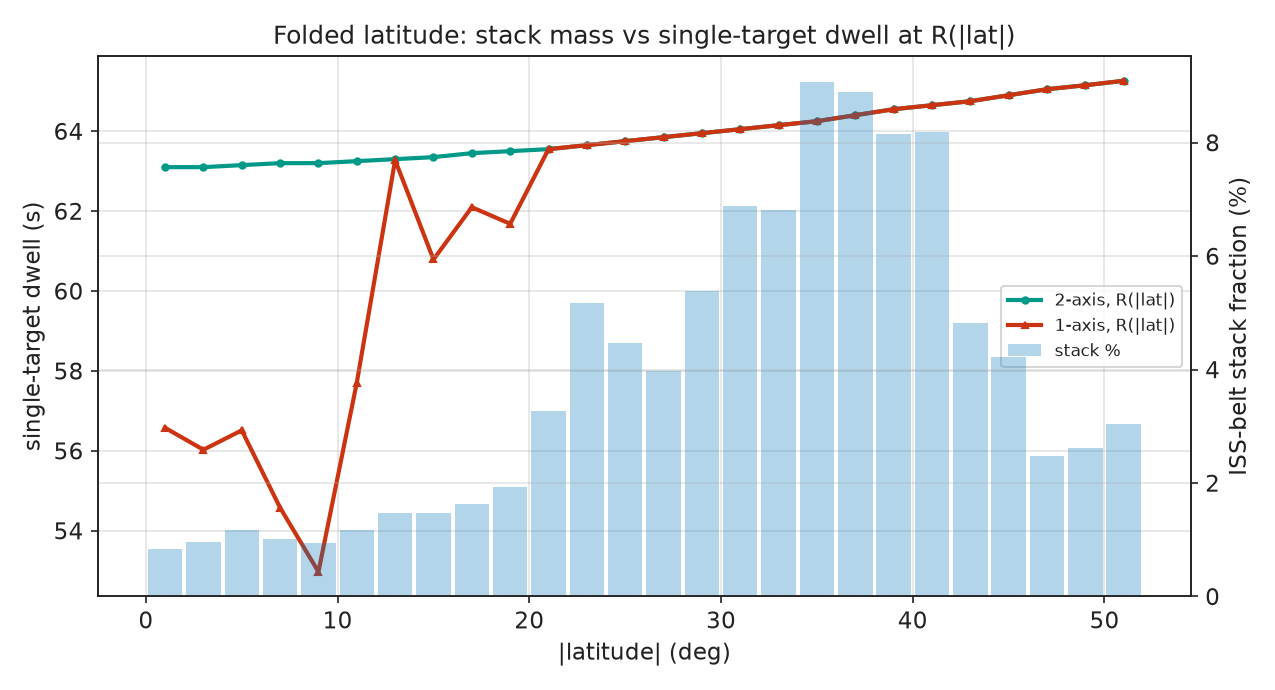
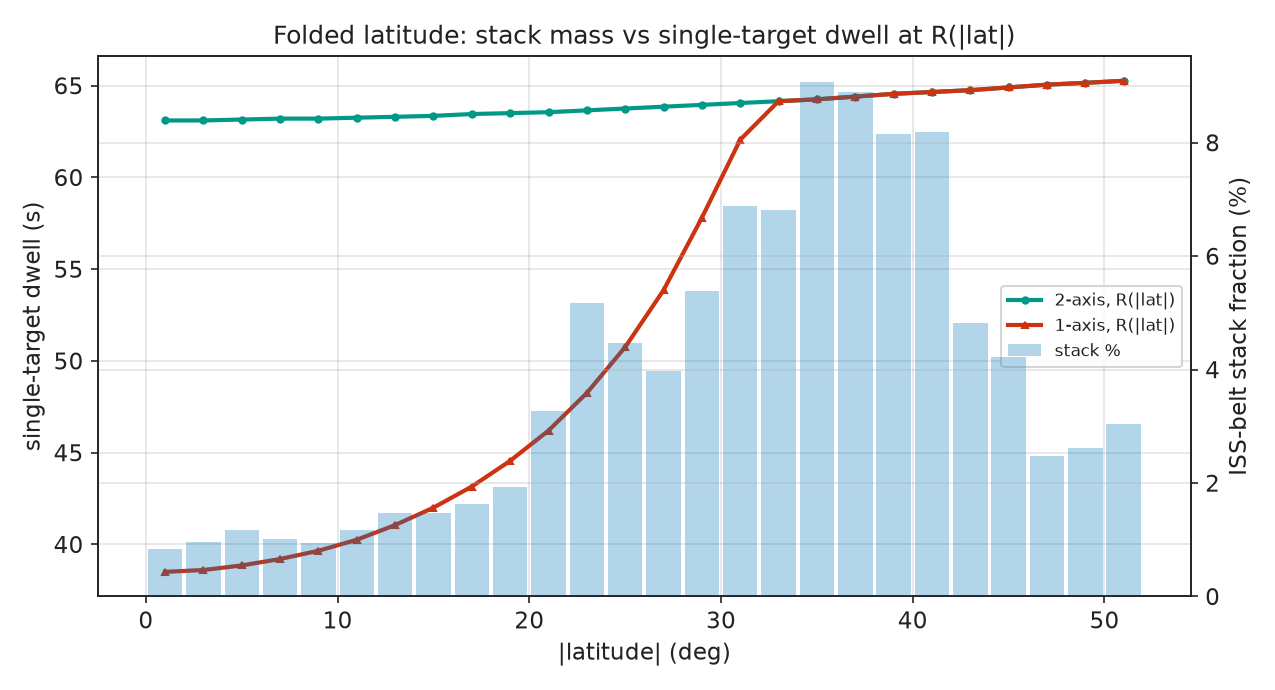
docs(analysis): regenerate gimbal study reports under the half-disk gate
Rebuild geometry and industry outputs after the 50% on-chip dwell test.
Add the 1-axis plume-length percentile reacquire figure. Guard TimeLostFn
cache loads when the radius grid shape changes.

diff --git a/packages/analysis/src/analysis/lib/tracking.py b/packages/analysis/src/analysis/lib/tracking.py
@@ -445,8 +445,11 @@ class TimeLostFn:
         t2: np.ndarray | None = None
         if cache_path.is_file():
             cached = np.load(cache_path)
-            same_grid = np.allclose(cached["lats"], self.lats) and np.allclose(
-                cached["rs"], self.rs
+            same_grid = (
+                cached["lats"].shape == self.lats.shape
+                and cached["rs"].shape == self.rs.shape
+                and np.allclose(cached["lats"], self.lats)
+                and np.allclose(cached["rs"], self.rs)
             )
             same_box = _cap_matches(
                 _npz_float(cached, "el_limb_deg"), box.el_limb_deg

diff --git a/packages/analysis/single_axis_vs_dual_axis_gimbal/INDUSTRIAL.md b/packages/analysis/single_axis_vs_dual_axis_gimbal/INDUSTRIAL.md
@@ -14,21 +14,20 @@ TEMPORARY ANALYSIS. Generated by the industry command of
   haversine plant span. That is a possibility set, not a smoke-filled blob.
 - **L = 2 km** is a **conservative visible-length envelope**
   (cooling-tower photo climatologies: typical 0.3-0.8 km, winter often
-  >0.9 km, ~90-95th percentile ~1.5-3 km). Not a Mommert-chip measurement.
-  Not typical length. Wind azimuth is unknown, so L is a radius: the
-  plume CoG sits somewhere in that disk.
-- **Any part of the disk.** Unknown wind puts the plume CoG somewhere
-  in the covering disk. Acquire means: there exists a point of that
-  disk the gimbal can put on the chip. One-axis: the parked FOV
-  (+/-1.60 deg) overlaps the disk azimuth span. Two-axis: the ISS
-  keep-out box (+/-10 deg) overlaps the disk, then the gimbal
-  boresights that in-box point onto the chip. A disk that sticks out
-  of the box still counts if any point is inside. This is not
-  whole-disk-in-box and not whole-disk-in-chip.
-- **P(visible)** = fraction of that disk in the FOV after pointing
-  (unknown-wind geometry). Not computed as a yield weight here.
-  Plume volume / Gaussian ribbon (~5% disk fill) is occupancy/SNR only.
-  Do not multiply the two.
+  >0.9 km). A lognormal fit (P50 = 0.50 km, P95 = 2.5 km) to those
+  bins, Polak 1984 (short <0.3, medium 0.3-0.9, long >0.9 km), and the
+  Indian Point NDCT few-percent tail at 1.6-4 km gives P50/P80/P90/P95/P99
+  = 0.50 / 1.1 / 1.8 / 2.5 / 4.9 km. Climate TRACE has plant span D,
+  not L. Locked design L sits between P90 and P95. Wind azimuth is
+  unknown, so L is a radius: the plume CoG sits somewhere in that disk.
+- **Half the disk on chip.** In-frame means at least 50% of covering-disk
+  area is on the chip after pointing. One-axis parks at az = 0 (elevation
+  tracks the origin). Two-axis boresights the origin when it is inside
+  the +/-10 deg keep-out box; if the origin is outside the box that
+  sample is out. This replaces the any-part existence test.
+- **P(visible)** is that on-chip area fraction. A sample counts if it is
+  >= 0.5. Plume volume / Gaussian ribbon (~5% disk fill) is occupancy/SNR
+  only. Do not multiply the two.
 - **No locked design R.** Operational R is per cluster (`r_cover_km`) and,
   for lat tables, stack-weighted mean `R(|lat|) = D(|lat|) + L`.
 - **Camera/lens.** BFS-U3-50S5, Sony IMX264, 3.45 um, 2448x2048,
@@ -155,9 +154,9 @@ The signed-latitude figure is the decision plot.
 
 | |lat| (deg) | R (km) | dwell 1 (s) | dwell 2 (s) | T_reacq 1 N (s) | T_reacq 2 N (s) | cycle 1 N (s) | cycle 2 N (s) |
 | --- | --- | --- | --- | --- | --- | --- | --- |
-| 0-10.0 | 3.90 | 55.2 | 63.1 | 206.3 | 79.3 | 261.4 | 142.5 |
-| 10-20.0 | 4.16 | 61.1 | 63.3 | 104.0 | 46.5 | 165.1 | 109.8 |
-| 20-30.0 | 4.87 | 63.7 | 63.7 | 21.4 | 15.7 | 85.2 | 79.5 |
+| 0-10.0 | 3.90 | 38.8 | 63.1 | 208.9 | 79.3 | 247.7 | 142.5 |
+| 10-20.0 | 4.16 | 42.0 | 63.3 | 105.9 | 46.5 | 147.9 | 109.8 |
+| 20-30.0 | 4.87 | 50.7 | 63.7 | 21.2 | 15.7 | 72.0 | 79.5 |
 | 30-40.0 | 5.51 | 64.2 | 64.2 | 7.4 | 7.1 | 71.7 | 71.4 |
 | 40-45.0 | 4.96 | 64.7 | 64.7 | 10.8 | 9.7 | 75.6 | 74.4 |
 | 45-51.6 | 4.31 | 65.1 | 65.1 | 26.1 | 17.9 | 91.2 | 83.0 |
@@ -180,13 +179,13 @@ off-track origins are a separate loss in the swath column.
 
 | weight | dwell 1 (s) | dwell 2 (s) | T_reacq 1 (s) | T_reacq 2 (s) | cycle 1 (s) | cycle 2 (s) | duty 1 | duty 2 |
 | --- | --- | --- | --- | --- | --- | --- | --- | --- |
-| **stack count (primary)** | 62.9 | 64.2 | 60.9 | 27.0 | 123.8 | 91.2 | 72% | 78% |
-| 2025 CO2 | 63.1 | 64.1 | 45.5 | 22.1 | 108.6 | 86.2 | 75% | 80% |
-| covering-disk area (sprawl) | 64.2 | 64.2 | 38.9 | 19.6 | 103.1 | 83.9 | 77% | 81% |
+| **stack count (primary)** | 58.6 | 64.2 | 61.2 | 27.0 | 119.8 | 91.2 | 71% | 78% |
+| 2025 CO2 | 58.2 | 64.1 | 45.7 | 22.1 | 103.9 | 86.2 | 73% | 80% |
+| covering-disk area (sprawl) | 59.3 | 64.2 | 39.2 | 19.6 | 98.5 | 83.9 | 75% | 81% |
 
 ISS dwell (more time near +/-i) does not change single-target dwell:
-stacks + dwell -> **63.5 vs 64.4 s** (same-origin leftover 0.9 s).
-Lost time is reacquire: **61 s (1-axis) vs 27 s (2-axis)**. Cycle (start of track to next acquire) is **124 s vs 91 s**. Duty T_dwell / cycle is **72% vs 78%**.
+stacks + dwell -> **60.3 vs 64.4 s** (same-origin leftover 4.1 s).
+Lost time is reacquire: **61 s (1-axis) vs 27 s (2-axis)**. Cycle (start of track to next acquire) is **120 s vs 91 s**. Duty T_dwell / cycle is **71% vs 78%**.
 Ocean-averaged longitude in each signed lat band still makes empty
 ocean stretches slow; city corridors would reacquire faster. This
 is not a nearest-neighbour plant-to-plant model. Folding |lat|
@@ -202,8 +201,8 @@ longitude coverage is proportional to swath.
 | | 1-axis | 2-axis | ratio |
 | --- | --- | --- | --- |
 | mean daily coverage of a random ISS-belt cluster | 2.26% | 14.22% | 6.31x |
-| primary FoM E[T_usable x coverage] (T>=1s) | 1.42 | 9.14 | 6.41x |
-| geometry check E[T x coverage] (s x frac) | 1.42 | 9.14 | 6.41x |
+| primary FoM E[T_usable x coverage] (T>=1s) | 1.34 | 9.14 | 6.82x |
+| geometry check E[T x coverage] (s x frac) | 1.34 | 9.14 | 6.82x |
 | distinct usable visits (frac/day) | 0.0226 | 0.1422 | 6.31x |
 
 The ~6x coverage ratio is the extra search area of the +/-10 deg ISS
@@ -212,9 +211,32 @@ box after the limb stop; scan time is in T_reacq, not in coverage.
 The along-track science window is no longer 124 s (that was 60 deg
 off-nadir). Combined FoM is dwell x coverage with the 1 s usable floor.
 
+## Plume-length percentiles (1-axis)
+
+Climate TRACE has plant span D, not visible plume length L. The
+P50/P80/P90/P95/P99 lengths are a lognormal fit to cooling-tower
+climatology (typical 0.3-0.8 km; Polak 1984 short/medium/long bins;
+Indian Point NDCT few-percent tail at 1.6-4 km), with P50 = 0.50 km
+and P95 = 2.5 km.
+
+| percentile | L (km) |
+| --- | --- |
+| P50 | 0.5 |
+| P80 | 1.1 |
+| P90 | 1.8 |
+| P95 | 2.5 |
+| P99 | 4.9 |
+| locked design | 2 |
+
+The companion figure holds 2-axis at L = 2 km and varies 1-axis
+R(|lat|) = D(|lat|) + L_pct. Under the 50% on-chip test, 1-axis
+curves nearly overlap except at low latitude where D+L approaches
+the chip width: half-out is then close to origin-on-the-FOV-edge,
+so locked L = 2 km does not drive the clocks.
+
 ## Decision numbers
 
-1. **Single-target dwell:** stack-weighted **63 s vs 64 s**.
+1. **Single-target dwell:** stack-weighted **59 s vs 64 s**.
    Almost all of the same-origin gap is the 20-40 N band, where Earth
    rotation walks the covering disk out of the 1-axis chip. That
    number is still the right 'how long can we stare at one plant'
@@ -226,10 +248,10 @@ off-nadir). Combined FoM is dwell x coverage with the 1 s usable floor.
    (shortest in the 30-40 N belt). Stack-weighted
    E[T_reacq] is **61 s (1-axis ribbon) vs 27 s (2-axis box)**.
    Cycle start-of-track to next-acquire is
-   **124 s vs 91 s** (duty 72% vs 78%).
+   **120 s vs 91 s** (duty 71% vs 78%).
 3. **Primary FoM: inferred-usable plume-seconds/day.** Stack-weighted
-   E[T_usable x coverage] with T_usable = dwell if dwell >= 1 s else 0. Ratio **6.4x** in favour of two-axis. The raw E[T x coverage] geometry check is
-   **6.4x**. The ~6x in coverage is the keep-out box versus the chip, by design.
+   E[T_usable x coverage] with T_usable = dwell if dwell >= 1 s else 0. Ratio **6.8x** in favour of two-axis. The raw E[T x coverage] geometry check is
+   **6.8x**. The ~6x in coverage is the keep-out box versus the chip, by design.
 4. A polar-slice one-axis payload that is only tasked at |lat| >= 45 deg
    keeps nearly the full science-window dwell, but it is looking at
    ~10% of the world's stack-bearing industry. If the mission must
@@ -247,6 +269,8 @@ PNGs are in git under `outputs/`. CSVs from the same run stay local.
 ![Single-target dwell vs latitude](outputs/industrial_time_vs_lat.png)
 
 ![Dwell, reacquire, and cycle vs latitude](outputs/industrial_reacquire_vs_lat.png)
+
+![1-axis dwell/reacquire/cycle vs latitude at plume-length percentiles](outputs/industrial_reacquire_vs_lat_plume_length.png)
 
 ![Cluster covering-radius histogram](outputs/industrial_cluster_radius.png)
 

diff --git a/packages/analysis/single_axis_vs_dual_axis_gimbal/RESULTS.md b/packages/analysis/single_axis_vs_dual_axis_gimbal/RESULTS.md
@@ -14,21 +14,20 @@ TEMPORARY ANALYSIS. Generated by the geometry command of
   haversine plant span. That is a possibility set, not a smoke-filled blob.
 - **L = 2 km** is a **conservative visible-length envelope**
   (cooling-tower photo climatologies: typical 0.3-0.8 km, winter often
-  >0.9 km, ~90-95th percentile ~1.5-3 km). Not a Mommert-chip measurement.
-  Not typical length. Wind azimuth is unknown, so L is a radius: the
-  plume CoG sits somewhere in that disk.
-- **Any part of the disk.** Unknown wind puts the plume CoG somewhere
-  in the covering disk. Acquire means: there exists a point of that
-  disk the gimbal can put on the chip. One-axis: the parked FOV
-  (+/-1.60 deg) overlaps the disk azimuth span. Two-axis: the ISS
-  keep-out box (+/-10 deg) overlaps the disk, then the gimbal
-  boresights that in-box point onto the chip. A disk that sticks out
-  of the box still counts if any point is inside. This is not
-  whole-disk-in-box and not whole-disk-in-chip.
-- **P(visible)** = fraction of that disk in the FOV after pointing
-  (unknown-wind geometry). Not computed as a yield weight here.
-  Plume volume / Gaussian ribbon (~5% disk fill) is occupancy/SNR only.
-  Do not multiply the two.
+  >0.9 km). A lognormal fit (P50 = 0.50 km, P95 = 2.5 km) to those
+  bins, Polak 1984 (short <0.3, medium 0.3-0.9, long >0.9 km), and the
+  Indian Point NDCT few-percent tail at 1.6-4 km gives P50/P80/P90/P95/P99
+  = 0.50 / 1.1 / 1.8 / 2.5 / 4.9 km. Climate TRACE has plant span D,
+  not L. Locked design L sits between P90 and P95. Wind azimuth is
+  unknown, so L is a radius: the plume CoG sits somewhere in that disk.
+- **Half the disk on chip.** In-frame means at least 50% of covering-disk
+  area is on the chip after pointing. One-axis parks at az = 0 (elevation
+  tracks the origin). Two-axis boresights the origin when it is inside
+  the +/-10 deg keep-out box; if the origin is outside the box that
+  sample is out. This replaces the any-part existence test.
+- **P(visible)** is that on-chip area fraction. A sample counts if it is
+  >= 0.5. Plume volume / Gaussian ribbon (~5% disk fill) is occupancy/SNR
+  only. Do not multiply the two.
 - **No locked design R.** Operational R is per cluster (`r_cover_km`) and,
   for lat tables, stack-weighted mean `R(|lat|) = D(|lat|) + L`.
 - **Camera/lens.** BFS-U3-50S5, Sony IMX264, 3.45 um, 2448x2048,
@@ -200,23 +199,18 @@ locked design radius.
 
 ## Covering-disk sensitivity (design pass)
 
-Elevation tracks the fixed stack / cluster centroid. Acquire is an
-existence test on unknown wind, not a filled-disk occupancy:
+Elevation tracks the fixed stack / cluster centroid. Acquire is a
+50% on-chip area test, not an existence sliver and not whole-disk-in-chip:
 
-1. **Can we point?** One-axis: the parked chip FOV overlaps the disk
-   azimuth span. Two-axis: the +/-10 deg ISS keep-out box overlaps
-   the disk. A disk that sticks out of the box still counts if any
-   point is inside.
-2. **Is that point on the chip?** One-axis is already parked, so FOV
-   overlap is the whole test. Two-axis then boresights the in-box
-   point (az = 0 on the chip). We do not require the rest of the
-   disk to fit in the box or on the chip.
+1. **Can we point?** One-axis is parked at az = 0. Two-axis boresights
+   the origin if it is inside the +/-10 deg ISS keep-out box. If the
+   origin is outside the box, that sample is out.
+2. **Is half the disk on the chip?** After pointing, the chip is a
+   local-flat ground rectangle of half-widths slant * tan(half_fov).
+   Count the sample if covering-disk area on that rectangle is >= 50%.
+   For R well below the chip (~12 km at nadir) this is close to
+   origin-on-the-FOV-edge for one-axis.
 
-Whole-disk-in-box was the previous 2-axis test and is wrong for this
-gimbal: a large disk at the far look can span more than +/-10 deg
-even when the origin is on boresight, so that test dropped dwell as
-R grew. The chip-after-boresight test keeps full-window 2-axis dwell
-whenever any point of the disk is inside the box.
 The radii below are a **sensitivity sweep at the design latitude**,
 not a locked operational R. Isolated stacks sit at R = L = 2 km.
 
@@ -232,10 +226,9 @@ not a locked operational R. Isolated stacks sit at R = L = 2 km.
 | 15.0 | 1.98 | 65.3 | 65.3 | 0.0 | 0.0% |
 
 At the design pass the origin stays in the chip (Earth-rotation az
-~0). Any-part overlap then keeps the disk in the 1-axis FOV for the
-whole science window at every R in this sweep: the origin is a point
-of the disk. Whole-disk-in-chip would still fail for R larger than
-the nadir half-swath (12.1 km).
+~0). Half-disk on chip then keeps 1-axis and 2-axis at full-window
+dwell until R is large enough that the chip itself clips half the
+disk (nadir half-swath 12.1 km).
 
 Wind during the window (extra walk of a visible plume around the fixed
 origin; already inside the L envelope if L is conservative):

diff --git a/packages/analysis/single_axis_vs_dual_axis_gimbal/README.md b/packages/analysis/single_axis_vs_dual_axis_gimbal/README.md
@@ -24,21 +24,20 @@ Geometry: [`RESULTS.md`](RESULTS.md). Worldwide stack inventory:
   haversine plant span. That is a possibility set, not a smoke-filled blob.
 - **L = 2 km** is a **conservative visible-length envelope**
   (cooling-tower photo climatologies: typical 0.3-0.8 km, winter often
-  >0.9 km, ~90-95th percentile ~1.5-3 km). Not a Mommert-chip measurement.
-  Not typical length. Wind azimuth is unknown, so L is a radius: the
-  plume CoG sits somewhere in that disk.
-- **Any part of the disk.** Unknown wind puts the plume CoG somewhere
-  in the covering disk. Acquire means: there exists a point of that
-  disk the gimbal can put on the chip. One-axis: the parked FOV
-  (+/-1.60 deg) overlaps the disk azimuth span. Two-axis: the ISS
-  keep-out box (+/-10 deg) overlaps the disk, then the gimbal
-  boresights that in-box point onto the chip. A disk that sticks out
-  of the box still counts if any point is inside. This is not
-  whole-disk-in-box and not whole-disk-in-chip.
-- **P(visible)** = fraction of that disk in the FOV after pointing
-  (unknown-wind geometry). Not computed as a yield weight here.
-  Plume volume / Gaussian ribbon (~5% disk fill) is occupancy/SNR only.
-  Do not multiply the two.
+  >0.9 km). A lognormal fit (P50 = 0.50 km, P95 = 2.5 km) to those
+  bins, Polak 1984 (short <0.3, medium 0.3-0.9, long >0.9 km), and the
+  Indian Point NDCT few-percent tail at 1.6-4 km gives P50/P80/P90/P95/P99
+  = 0.50 / 1.1 / 1.8 / 2.5 / 4.9 km. Climate TRACE has plant span D,
+  not L. Locked design L sits between P90 and P95. Wind azimuth is
+  unknown, so L is a radius: the plume CoG sits somewhere in that disk.
+- **Half the disk on chip.** In-frame means at least 50% of covering-disk
+  area is on the chip after pointing. One-axis parks at az = 0 (elevation
+  tracks the origin). Two-axis boresights the origin when it is inside
+  the +/-10 deg keep-out box; if the origin is outside the box that
+  sample is out. This replaces the any-part existence test.
+- **P(visible)** is that on-chip area fraction. A sample counts if it is
+  >= 0.5. Plume volume / Gaussian ribbon (~5% disk fill) is occupancy/SNR
+  only. Do not multiply the two.
 - **No locked design R.** Operational R is per cluster (`r_cover_km`) and,
   for lat tables, stack-weighted mean `R(|lat|) = D(|lat|) + L`.
 - **Camera/lens.** BFS-U3-50S5, Sony IMX264, 3.45 um, 2448x2048,
@@ -102,10 +101,10 @@ from the inventory, not by a 5 km placeholder.
 | ISS-belt stack fraction | 92.8% |
 | Stack-weighted mean R | 4.98 km (inventory, not design) |
 | Stacks at |lat| >= 45 deg | **10%** |
-| Single-target dwell, stack-weighted | **63 s vs 64 s** |
+| Single-target dwell, stack-weighted | **59 s vs 64 s** |
 | Mean reacquire (lost time) | **61 s vs 27 s** |
-| Cycle start-of-track to next acquire | **124 s vs 91 s** (duty 72% vs 78%) |
-| Daily usable yield (T>=1s x coverage) | **~6x** in favour of 2-axis |
+| Cycle start-of-track to next acquire | **120 s vs 91 s** (duty 71% vs 78%) |
+| Daily usable yield (T>=1s x coverage) | **~7x** in favour of 2-axis |
 
 | |lat| (deg) | D (km) | R (km) | singleton % | d_char n>=2 (km) |
 | --- | --- | --- | --- | --- |
@@ -139,4 +138,6 @@ PNGs are in git under `outputs/`. CSVs from the same run stay local.
 ![Single-target dwell vs latitude](outputs/industrial_time_vs_lat.png)
 
 ![Dwell, reacquire, and cycle vs latitude](outputs/industrial_reacquire_vs_lat.png)
+
+![1-axis dwell/reacquire/cycle vs latitude at plume-length percentiles](outputs/industrial_reacquire_vs_lat_plume_length.png)
 
